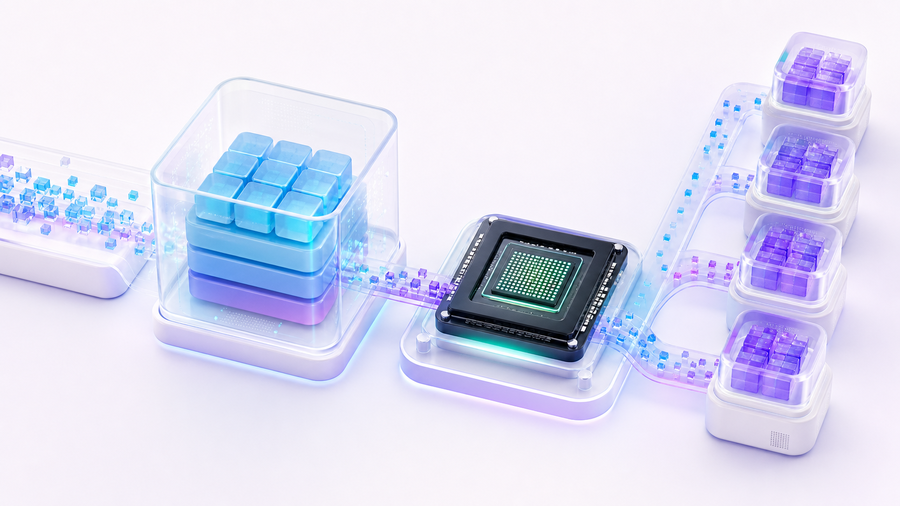
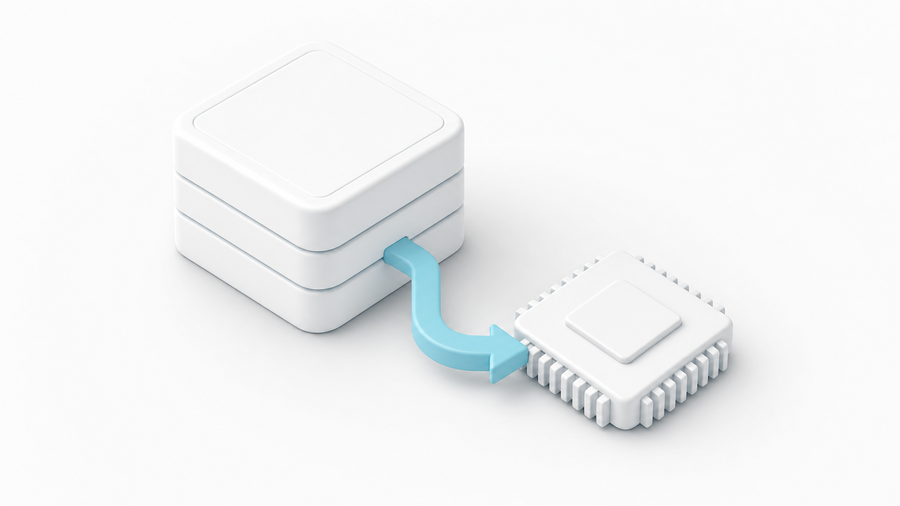
Apply Docker GPU imagery and hero covers

diff --git a/demo-blogs/airbnb-burla.md b/demo-blogs/airbnb-burla.md
@@ -1,5 +1,11 @@
 ---
 cover: ../.gitbook/assets/more-examples/airbnb-burla.png
+coverY: 0
+layout:
+  width: default
+  cover:
+    visible: true
+    size: hero
 ---
 
 # Test Airbnb hypotheses at public-data scale

diff --git a/demo-blogs/amazon-review-distiller.md b/demo-blogs/amazon-review-distiller.md
@@ -1,5 +1,11 @@
 ---
 cover: ../.gitbook/assets/more-examples/amazon-review-distiller.png
+coverY: 0
+layout:
+  width: default
+  cover:
+    visible: true
+    size: hero
 ---
 
 # Distill 571 million Amazon reviews

diff --git a/demo-blogs/arxiv-fossils.md b/demo-blogs/arxiv-fossils.md
@@ -1,5 +1,11 @@
 ---
 cover: ../.gitbook/assets/more-examples/arxiv-fossils.png
+coverY: 0
+layout:
+  width: default
+  cover:
+    visible: true
+    size: hero
 ---
 
 # Cluster all arXiv abstracts before naming extinct topics

diff --git a/demo-blogs/bioinformatics-alignment.md b/demo-blogs/bioinformatics-alignment.md
@@ -1,6 +1,12 @@
 ---
 cover: ../.gitbook/assets/more-examples/bioinformatics-alignment.png
+coverY: 0
 hidden: true
+layout:
+  width: default
+  cover:
+    visible: true
+    size: hero
 ---
 
 # Align every FASTQ sample without building a scheduler first

diff --git a/demo-blogs/gdal-raster-processing.md b/demo-blogs/gdal-raster-processing.md
@@ -1,6 +1,12 @@
 ---
 cover: ../.gitbook/assets/more-examples/gdal-raster-processing.png
+coverY: 0
 hidden: true
+layout:
+  width: default
+  cover:
+    visible: true
+    size: hero
 ---
 
 # Process every raster tile, not a pretty subset

diff --git a/demo-blogs/ghcn-rainiest-day.md b/demo-blogs/ghcn-rainiest-day.md
@@ -1,6 +1,12 @@
 ---
 cover: ../.gitbook/assets/more-examples/ghcn-rainiest-day.png
+coverY: 0
 hidden: true
+layout:
+  width: default
+  cover:
+    visible: true
+    size: hero
 ---
 
 # Find the rainiest day by scanning every NOAA year file

diff --git a/demo-blogs/github-repo-summarizer.md b/demo-blogs/github-repo-summarizer.md
@@ -1,6 +1,12 @@
 ---
 cover: ../.gitbook/assets/more-examples/github-repo-summarizer.png
+coverY: 0
 hidden: true
+layout:
+  width: default
+  cover:
+    visible: true
+    size: hero
 ---
 
 # Summarize a million READMEs without calling an LLM

diff --git a/demo-blogs/gpu-embedding-demo.md b/demo-blogs/gpu-embedding-demo.md
@@ -1,6 +1,12 @@
 ---
 cover: ../.gitbook/assets/more-examples/gpu-embedding-demo.png
+coverY: 0
 hidden: true
+layout:
+  width: default
+  cover:
+    visible: true
+    size: hero
 ---
 
 # Put an embedding model on A100s

diff --git a/demo-blogs/image-dataset-resize.md b/demo-blogs/image-dataset-resize.md
@@ -1,6 +1,12 @@
 ---
 cover: ../.gitbook/assets/more-examples/image-dataset-resize.png
+coverY: 0
 hidden: true
+layout:
+  width: default
+  cover:
+    visible: true
+    size: hero
 ---
 
 # Resize the whole image corpus before training on it

diff --git a/demo-blogs/met-weirdest-art.md b/demo-blogs/met-weirdest-art.md
@@ -1,6 +1,12 @@
 ---
 cover: ../.gitbook/assets/more-examples/met-weirdest-art.png
+coverY: 0
 hidden: true
+layout:
+  width: default
+  cover:
+    visible: true
+    size: hero
 ---
 
 # Let CLIP compare every Met image

diff --git a/demo-blogs/ml-inference-batch.md b/demo-blogs/ml-inference-batch.md
@@ -1,6 +1,12 @@
 ---
 cover: ../.gitbook/assets/more-examples/ml-inference-batch.png
+coverY: 0
 hidden: true
+layout:
+  width: default
+  cover:
+    visible: true
+    size: hero
 ---
 
 # Run batch inference as a job, not an endpoint

diff --git a/demo-blogs/monte-carlo-simulation.md b/demo-blogs/monte-carlo-simulation.md
@@ -1,6 +1,12 @@
 ---
 cover: ../.gitbook/assets/more-examples/monte-carlo-simulation.png
+coverY: 0
 hidden: true
+layout:
+  width: default
+  cover:
+    visible: true
+    size: hero
 ---
 
 # Run the Monte Carlo you actually meant to run